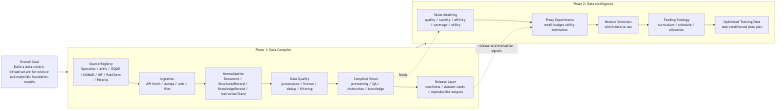
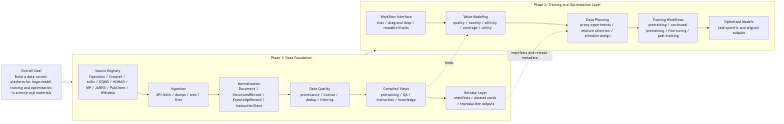
Reframe project as training platform

Changed region(s): [[0.0, 0.0, 1.0, 0.973], [0.6735, 0.027, 0.7959, 0.0541], [0.551, 0.4865, 0.5816, 0.5405]]

diff --git a/README.md b/README.md
@@ -1,84 +1,101 @@
 # Lattice
 
-> An open-source data compiler for scientific and materials foundation models.
+> An open-source data-centric platform for large-model training and optimization in science and materials.
 
-Lattice is a data-centric project for turning fragmented scientific sources into reusable, provenance-aware, training-ready datasets.
+Lattice is a platform for building, organizing, and using high-quality training data across the large-model lifecycle: pretraining, continued pretraining, fine-tuning, and post-training.
+
+It starts from the hardest part first: turning fragmented scientific sources into structured, provenance-aware, training-ready data.
 
 ![Lattice roadmap](figures/phase1-phase2-roadmap.png)
 
 ## Project Goal
 
-The goal of Lattice is to build a long-term data infrastructure for foundation models in science and materials.
+The goal of Lattice is to build a platform that can automatically collect, process, organize, and use high-quality training data from many different sources, and make the full model-training workflow easier to operate.
 
-We do not want data collection to remain a one-off scraping workflow. We want it to become a reproducible system that can:
+In the long run, Lattice should support:
 
-- connect heterogeneous scientific sources
-- normalize them into a stable schema
-- preserve provenance, licensing, and dedup information
-- compile them into reusable training-ready dataset views
-- eventually learn which data is more valuable and how it should be used
+- pretraining from scratch
+- continued pretraining on top of existing models
+- task-specific fine-tuning
+- safety and alignment optimization in post-training
 
-## Why This Project
+And it should let users complete these workflows through:
 
-Scientific and materials data is split across many incompatible sources:
+- conversational interaction
+- drag-and-drop composition
+- reusable pipeline blocks
 
-- papers and preprints
-- structured materials databases
-- chemistry resources
-- repositories and archives
-- patents
-- educational resources
+The intended experience is that users can assemble large-model training and optimization workflows like building blocks, without needing to hand-write complex code for every step.
 
-This creates a practical bottleneck:
+## Why This Platform Is Needed
 
-1. useful data is scattered and hard to unify
-2. most collected data is not directly training-ready
-3. data usage is still largely heuristic
+Today, high-quality model training in scientific domains is difficult for two reasons at once:
 
-Lattice exists because progress in scientific foundation models is increasingly constrained by data quality, structure, provenance, and reuse, not just by model architecture.
+1. **The data problem**
+   Scientific and materials data is fragmented across papers, preprints, databases, repositories, patents, and educational resources.
 
-## What Lattice Builds
+2. **The workflow problem**
+   Even after data is collected, users still need to manually connect data preparation, pretraining, continued pretraining, fine-tuning, and post-training pipelines.
 
-### Phase 1: Data Compiler
+This means that the main bottleneck is not just model design. It is also:
 
-Phase 1 builds the core data compiler.
+- how to gather data
+- how to standardize it
+- how to track provenance and licensing
+- how to turn it into training-ready views
+- how to connect it to downstream training workflows
 
-Its job is to take heterogeneous raw sources and turn them into normalized, provenance-aware, training-ready records and dataset views.
+Lattice is meant to solve both the data layer and the workflow layer, starting from data infrastructure and expanding into training orchestration.
 
-Phase 1 focuses on:
+## Platform Structure
 
-- source ingestion
+Lattice is organized in two phases.
+
+### Phase 1: Data Foundation
+
+Phase 1 builds the data engine of the platform.
+
+Its purpose is to automatically ingest heterogeneous sources and convert them into normalized, provenance-aware, reusable training data.
+
+Phase 1 includes:
+
+- source registry and source adapters
+- ingestion from APIs, files, web resources, and databases
 - schema normalization
-- provenance and license tracking
-- deduplication and quality filtering
-- compiled outputs for:
+- provenance, licensing, and dedup tracking
+- quality filtering and data cleaning
+- compiled dataset views for:
   - pretraining
   - QA
   - instruction tuning
   - knowledge records
 
-### Phase 2: Data Intelligence
+This is the part of the platform that is currently implemented in the repository.
 
-Phase 2 builds the intelligence layer on top of Phase 1.
+### Phase 2: Training and Optimization Layer
 
-Its job is not just to compile data, but to decide which data is more valuable and how it should be used for specific tasks and budgets.
+Phase 2 builds the model-training and optimization layer on top of Phase 1.
 
-Phase 2 focuses on:
+Its purpose is to let users move from data preparation to end-to-end model improvement workflows.
 
-- data valuation
-- task-conditioned scoring
-- mixture selection
-- feeding strategy and curriculum optimization
-- proxy experiments for downstream utility estimation
+Phase 2 is intended to support:
+
+- pretraining
+- continued pretraining
+- fine-tuning
+- post-training for safety and alignment
+- data valuation and data selection
+- mixture optimization and feeding strategy design
+- conversational and low-code workflow control
 
 In short:
 
-- Phase 1 asks: **How do we build high-quality scientific training data?**
-- Phase 2 asks: **Which data should we use, and how should we use it?**
+- Phase 1 answers: **How do we build high-quality training data?**
+- Phase 2 answers: **How do we use that data to train and optimize models more easily and more effectively?**
 
 ## Current Status
 
-The repository is currently implementing **Phase 1**.
+The repository is currently implementing **Phase 1** of the platform.
 
 What is already in place:
 
@@ -89,26 +106,19 @@ What is already in place:
 - compiled dataset views
 - a starter source registry
 - real-source demo fetchers
-- P0 materials adapters for:
-  - OQMD
-  - NOMAD
-  - Materials Project with API-key gating
+- open-source adapters for:
   - OpenAlex
   - Crossref
   - arXiv
   - PubChem
-  - Wikidata
+  - OQMD
+  - NOMAD
   - JARVIS
+  - Wikidata
+- Materials Project integration with API-key gating
 - tests and CI
 
-## Repository Structure
-
-- `src/lattice/`: core package
-- `configs/`: source registry and fetch configuration
-- `docs/`: architecture notes and research documents
-- `docs/research/`: proposal, survey, and planning notes
-- `examples/`: small sample inputs
-- `tests/`: unit and end-to-end tests
+So today, Lattice is already functioning as the **data foundation layer** of the future platform, but it is not yet the full training platform described above.
 
 ## Daily Updates
 
@@ -149,20 +159,30 @@ What is already in place:
 - Extended the compiler so `KnowledgeRecord` sources can also flow into QA, instruction, and knowledge views.
 - Marked PatentsView as an optional connector while the legacy API remains discontinued during ODP migration.
 
+## Repository Structure
+
+- `src/lattice/`: core package
+- `configs/`: source registry and fetch configuration
+- `docs/`: architecture notes and research documents
+- `docs/research/`: proposal, survey, and planning notes
+- `examples/`: small sample inputs
+- `tests/`: unit and end-to-end tests
+
 ## Roadmap
 
 Near-term priorities:
 
-- expand Phase 1 source coverage
+- expand open-source source coverage in Phase 1
 - improve source registry and license gating
 - build a stronger silver layer for cross-source alignment
 - release a larger materials-domain dataset
 
 Long-term priorities:
 
-- add value modeling
-- add mixture optimization
-- add feeding strategy optimization
+- connect Phase 1 outputs to model training workflows
+- support pretraining, continued pretraining, fine-tuning, and post-training
+- add data valuation and mixture optimization
+- add conversational and drag-and-drop workflow control
 
 ## Supporting Docs
 

diff --git a/figures/phase1-phase2-roadmap.md b/figures/phase1-phase2-roadmap.md
@@ -4,10 +4,10 @@ This diagram summarizes how Lattice moves from a data compiler in Phase 1 to a d
 
 ```mermaid
 flowchart LR
-    G["Overall Goal<br/>Build a data-centric infrastructure for science and materials foundation models"]
+    G["Overall Goal<br/>Build a data-centric platform for large-model training and optimization in science and materials"]
 
-    subgraph P1["Phase 1: Data Compiler"]
-        S1["Source Registry<br/>OpenAlex / arXiv / OQMD / NOMAD / MP / PubChem / Patents"]
+    subgraph P1["Phase 1: Data Foundation"]
+        S1["Source Registry<br/>OpenAlex / Crossref / arXiv / OQMD / NOMAD / MP / JARVIS / PubChem / Wikidata"]
         S2["Ingestion<br/>API fetch / dumps / web / files"]
         S3["Normalization<br/>Document / StructuredRecord / KnowledgeRecord / InstructionTrace"]
         S4["Data Quality<br/>provenance / license / dedup / filtering"]
@@ -16,17 +16,17 @@ flowchart LR
         S1 --> S2 --> S3 --> S4 --> S5 --> S6
     end
 
-    subgraph P2["Phase 2: Data Intelligence"]
+    subgraph P2["Phase 2: Training and Optimization Layer"]
+        T0["Workflow Interface<br/>chat / drag-and-drop / reusable blocks"]
         T1["Value Modeling<br/>quality / novelty / affinity / coverage / utility"]
-        T2["Proxy Experiments<br/>small-budget utility estimation"]
-        T3["Mixture Selection<br/>which data to use"]
-        T4["Feeding Strategy<br/>curriculum / schedule / allocation"]
-        T5["Optimized Training Data<br/>task-conditioned data plan"]
-        T1 --> T2 --> T3 --> T4 --> T5
+        T2["Data Planning<br/>proxy experiments / mixture selection / schedule design"]
+        T3["Training Workflows<br/>pretraining / continued pretraining / fine-tuning / post-training"]
+        T4["Optimized Models<br/>task-specific and aligned outputs"]
+        T0 --> T1 --> T2 --> T3 --> T4
     end
 
     G --> P1
     P1 --> P2
     S5 -. feeds .-> T1
-    S6 -. release and evaluation signals .-> T2
+    S6 -. manifests and release metadata .-> T2
 ```

diff --git a/docs/overview.md b/docs/overview.md
@@ -2,22 +2,29 @@
 
 ## Goal
 
-Lattice treats raw domain sources as input programs and compiles them into multiple training-ready dataset views.
+Lattice is a data-centric platform for large-model training and optimization in science and materials.
+
+It starts by building the data foundation layer, then expands toward full training and optimization workflows.
 
 ## Phase 1 Pipeline
 
-1. Ingest heterogeneous files from a source directory.
+1. Ingest heterogeneous sources from APIs, files, web resources, and databases.
 2. Normalize them into a minimal schema family.
-3. Score and filter low-value records.
-4. Export reusable dataset views.
-5. Write manifests for reproducibility and auditing.
+3. Track provenance, license status, and dedup information.
+4. Score and filter low-value records.
+5. Export reusable dataset views.
+6. Write manifests for reproducibility and auditing.
 
-## Phase 2 Placeholder
+## Phase 2 Platform Layer
 
-Phase 2 will consume Phase 1 artifacts and add:
+Phase 2 will consume Phase 1 artifacts and expand Lattice into a model-training and optimization platform:
 
+- pretraining
+- continued pretraining
+- fine-tuning
+- post-training
 - value vectors
 - proxy experiments
 - mixture selection
 - feeding schedule optimization
-
+- conversational and low-code workflow control
